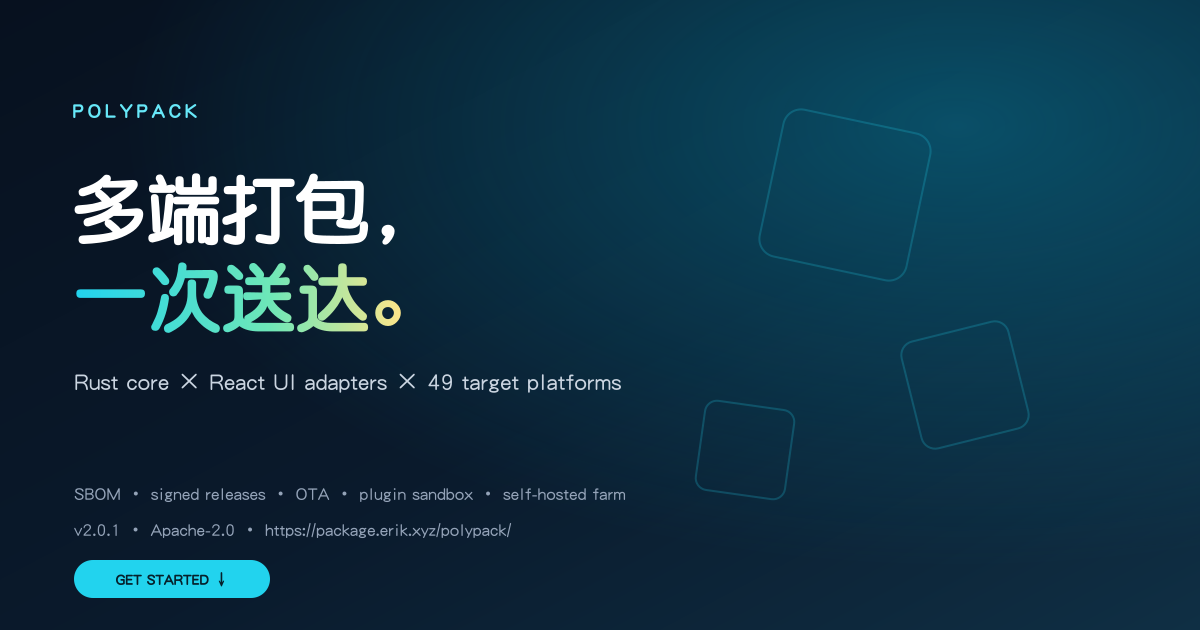
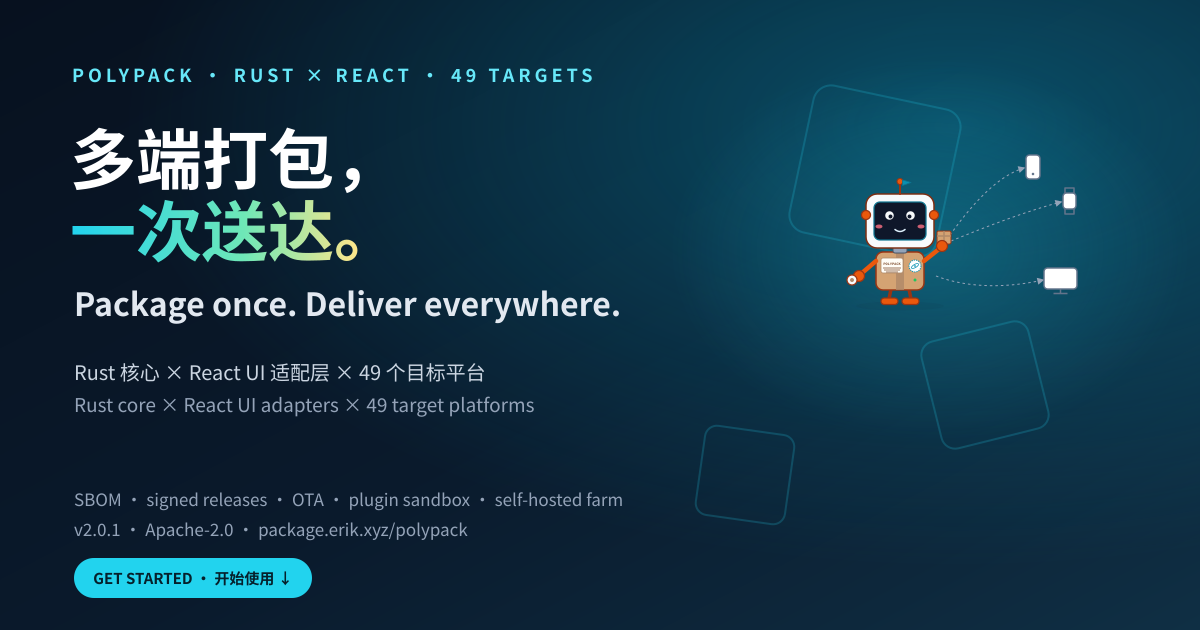
site: add bilingual social preview
Replace the OG cover with a 1200x630 Chinese-English card featuring Pax, and add bilingual og/twitter image alt metadata on both pages.

diff --git a/site/index.html b/site/index.html
@@ -26,6 +26,8 @@
   <meta property="og:description" content="Rust 核心 × React UI 适配层 × 49 个目标平台。可验证、可签名、可自托管的跨端打包流水线。">
   <meta property="og:url" content="https://package.erik.xyz/polypack/">
   <meta property="og:image" content="https://package.erik.xyz/polypack/assets/og/cover.png">
+  <meta property="og:image:type" content="image/png">
+  <meta property="og:image:alt" content="PolyPack 中英双语社交预览 / PolyPack bilingual social preview — 多端打包，一次送达 / Package once. Deliver everywhere.">
   <meta property="og:image:width" content="1200">
   <meta property="og:image:height" content="630">
   <meta property="og:locale" content="zh_CN">
@@ -34,6 +36,7 @@
   <meta name="twitter:title" content="PolyPack — 多端打包，一次送达">
   <meta name="twitter:description" content="Rust core × React adapters × 49 targets. A verifiable, signable, self-hostable packaging pipeline.">
   <meta name="twitter:image" content="https://package.erik.xyz/polypack/assets/og/cover.png">
+  <meta name="twitter:image:alt" content="PolyPack 中英双语社交预览 / bilingual social preview">
   <script type="application/ld+json">
   {
     "@context": "https://schema.org",

diff --git a/site/downloads/index.html b/site/downloads/index.html
@@ -19,7 +19,13 @@
   <meta property="og:description" content="Linux / Windows / macOS 原生安装器与便携二进制，附 SHA-256 校验和。">
   <meta property="og:url" content="https://package.erik.xyz/polypack/downloads/">
   <meta property="og:image" content="https://package.erik.xyz/polypack/assets/og/cover.png">
+  <meta property="og:image:type" content="image/png">
+  <meta property="og:image:width" content="1200">
+  <meta property="og:image:height" content="630">
+  <meta property="og:image:alt" content="PolyPack 中英双语社交预览 / PolyPack bilingual social preview — 多端打包，一次送达 / Package once. Deliver everywhere.">
   <meta name="twitter:card" content="summary_large_image">
+  <meta name="twitter:image" content="https://package.erik.xyz/polypack/assets/og/cover.png">
+  <meta name="twitter:image:alt" content="PolyPack 中英双语社交预览 / bilingual social preview">
   <script type="application/ld+json">
   {
     "@context": "https://schema.org",
